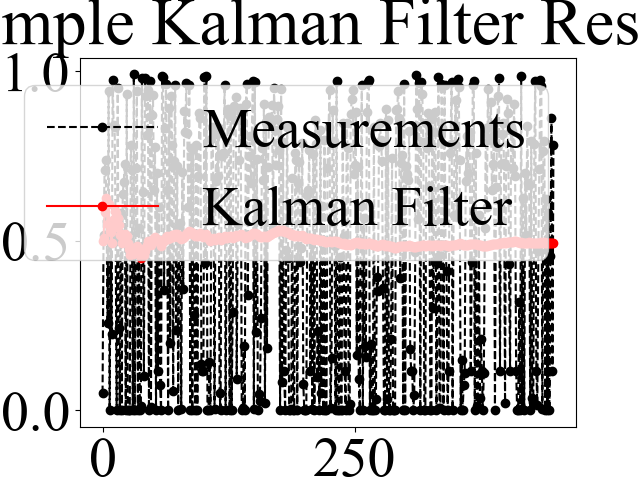
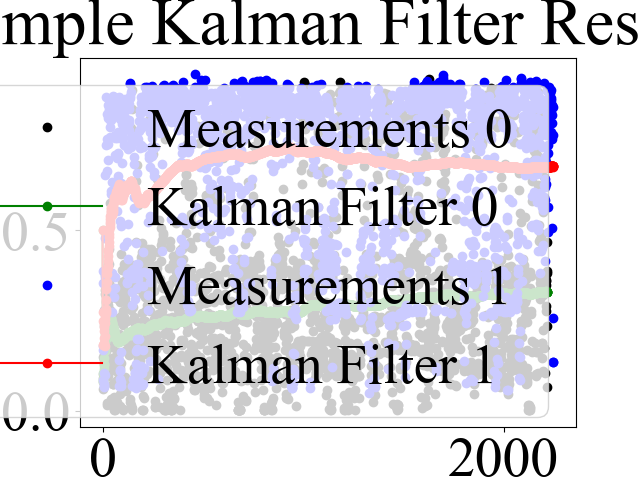
kf

diff --git a/tfpose/3-analyzing/simpleKF.py b/tfpose/3-analyzing/simpleKF.py
@@ -10,98 +10,107 @@ from scipy.optimize import curve_fit
 plt.rcParams['font.family'] = 'Times New Roman'
 plt.rcParams.update({'font.size': 40})
 
-dataPath = '../0-data/data_prediction/4R16R1S_es_100/90_for_kf.pkl'
-
-dfRaw = pd.read_pickle(dataPath)
-
-print(dfRaw)
-
-
-tFrame =  50.
-tFps = 20.
-tWin = tFrame * (1/tFps)
-tMax = tWin * len(dfRaw)
-
-
-n4error = tFrame
-
-error = 12 / np.sqrt(n4error)
+dataPath0 = '/Users/wdlee/Hci/test00.pkl'
+dataPath1 = '/Users/wdlee/Hci/test11.pkl'
 
 
 
-print(error)
-
-dfMeasure = dfRaw['prediction']
-
-print(dfMeasure)
-
-
-dfMeasureCut = pd.DataFrame() 
-
-nCut = 1
-
-for i in range(0, len(dfRaw), nCut) :
-    dfMeasureOne =  pd.DataFrame([dfMeasure.loc[i]])
-    dfMeasureCut = pd.concat([dfMeasureCut, dfMeasureOne])
-
-# print(dfMeasureCut)
 
 
 
-tWinCut = nCut * tWin
 
-tNp = np.arange(0, tMax, step=tWinCut)
+def funcKFsimple(datapath):
+    dfRaw = pd.read_pickle(datapath)
+    # dfRaw = dfRaw[500:1700].reset_index(drop=True)
 
+    tFrame =  50.
+    tFps = 20.
+    tWin = tFrame * (1/tFps)
+    tMax = tWin * len(dfRaw)
+    n4error = tFrame
+    error = 12 / np.sqrt(n4error)
 
+    dfMeasure = dfRaw['prediction']
 
-def kalman_filter(z_meas, x_esti, P):
-    """Kalman Filter Algorithm for One Variable."""
-    # (1) Prediction.
-    x_pred = A * x_esti
-    P_pred = A * P * A + Q
-
-    # (2) Kalman Gain.
-    K = P_pred * H / (H * P_pred * H + R)
-
-    # (3) Estimation.
-    x_esti = x_pred + K * (z_meas - H * x_pred)
-
-    # (4) Error Covariance.
-    P = P_pred - K * H * P_pred
-
-    return x_esti, P
+    # print(dfMeasure)
 
 
-# Initialization for system model.
-A = 1
-H = 1
-Q = 0
-R = 4
-# Initialization for estimation.
-x_0 = 0.5  # 14 for book.
-P_0 = 6
+    dfMeasureCut = pd.DataFrame() 
 
-conLv_meas_save = np.zeros(len(dfRaw))
-conLv_esti_save = np.zeros(len(dfRaw))
+    nCut = 1
 
-print(len(dfRaw))
-tNpTot = np.arange(0, len(dfRaw))
-x_esti, P = None, None
-for i in range(0, len(dfRaw), nCut):
-    z_meas = dfRaw.iloc[i]
-    z_meas = z_meas['prediction']
+    for i in range(0, len(dfRaw), nCut) :
+        dfMeasureOne =  pd.DataFrame([dfMeasure.loc[i]])
+        dfMeasureCut = pd.concat([dfMeasureCut, dfMeasureOne])
 
-    if i == 0:
-        x_esti, P = x_0, P_0
-    else:
-        x_esti, P = kalman_filter(z_meas, x_esti, P)
+    # print(dfMeasureCut)
 
-    conLv_meas_save[i] = z_meas
-    conLv_esti_save[i] = x_esti
+
+
+    tWinCut = nCut * tWin
+
+    tNp = np.arange(0, tMax, step=tWinCut)
+
+
+
+    def kalman_filter(z_meas, x_esti, P):
+        """Kalman Filter Algorithm for One Variable."""
+        # (1) Prediction.
+        x_pred = A * x_esti
+        P_pred = A * P * A + Q
+
+        # (2) Kalman Gain.
+        K = P_pred * H / (H * P_pred * H + R)
+
+        # (3) Estimation.
+        x_esti = x_pred + K * (z_meas - H * x_pred)
+
+        # (4) Error Covariance.
+        P = P_pred - K * H * P_pred
+
+        return x_esti, P
+
+        # Initialization for system model.
+    A = 1
+    H = 1
+    Q = 0
+    R = 4
+    # Initialization for estimation.
+    x_0 = 0.5  
+    P_0 = 100
+
+    conLv_meas_save = np.zeros(len(dfRaw))
+    conLv_esti_save = np.zeros(len(dfRaw))
+
+    print(len(dfRaw))
+    tNpTot = np.arange(0, len(dfRaw))
+    x_esti, P = None, None
+    for i in range(0, len(dfRaw), nCut):
+        z_meas = dfRaw.iloc[i]
+        z_meas = z_meas['prediction']
+
+        if i == 0:
+            x_esti, P = x_0, P_0
+        else:
+            x_esti, P = kalman_filter(z_meas, x_esti, P)
+
+        conLv_meas_save[i] = z_meas
+        conLv_esti_save[i] = x_esti
+
+    return conLv_meas_save, conLv_esti_save, tNpTot
+
+
+m1, e1, tNpTot1 = funcKFsimple(dataPath1)
+m0, e0, tNpTot0 = funcKFsimple(dataPath0)
 
 plt.figure(1)
-plt.plot(tNpTot, conLv_meas_save, 'ko--', label='Measurements')
-plt.plot(tNpTot, conLv_esti_save, 'ro-', label='Kalman Filter')
+plt.plot(tNpTot0, m0, 'ko', label='Measurements 0 ')
+plt.plot(tNpTot0, e0, 'go-', label='Kalman Filter 0 ')
+
+plt.plot(tNpTot1, m1, 'bo', label='Measurements 1 ')
+plt.plot(tNpTot1, e1, 'ro-', label='Kalman Filter 1 ')
+
+
 plt.legend(loc='upper right')
 plt.title('Simple Kalman Filter Result')
 plt.xlabel('Time [per 2.5 sec]')
@@ -109,11 +118,10 @@ plt.ylabel('Concentration Level')
 plt.savefig('./png/simple_kalman_filter.png')
 plt.grid()
 
-nBins = 150
-def _2gaussian(x, amp1,cen1,sigma1, amp2,cen2,sigma2):
-    return amp1*(1/(sigma1*(np.sqrt(2*np.pi))))*(np.exp((-1.0/2.0)*(((x_array-cen1)/sigma1)**2))) + \
-            amp2*(1/(sigma2*(np.sqrt(2*np.pi))))*(np.exp((-1.0/2.0)*(((x_array-cen2)/sigma2)**2)))
-
+nBins = 50
+# def _2gaussian(x, amp1,cen1,sigma1, amp2,cen2,sigma2):
+#     return amp1*(1/(sigma1*(np.sqrt(2*np.pi))))*(np.exp((-1.0/2.0)*(((x_array-cen1)/sigma1)**2))) + \
+#             amp2*(1/(sigma2*(np.sqrt(2*np.pi))))*(np.exp((-1.0/2.0)*(((x_array-cen2)/sigma2)**2)))
 
 
 def gauss(x,mu,sigma,A):
@@ -137,7 +145,7 @@ def bimodal(x,mu1,sigma1,A1,mu2,sigma2,A2):
 
 plt.figure(2)
 # plt.hist(conLv_esti_save, bins =nBins , label='Estimation')
-plt.legend(loc='upper right')
+plt.legend(loc='lower right')
 plt.title('Estimation Histogram')
 plt.xlabel('Estimation Concentration Level')
 plt.ylabel('Number of Values')
@@ -145,18 +153,34 @@ plt.ylabel('Number of Values')
 plt.grid()
 
 
-stdIni = np.std(conLv_esti_save)
-meanIni = np.mean(conLv_esti_save)
-y,x,_ = hist(conLv_esti_save, bins =nBins , label='Estimation', color='blue', alpha=0.5)
+stdIni1 = np.std(e1)
+meanIni1 = np.mean(e1)
 
-x=(x[1:]+x[:-1])/2 # for len(x)==len(y)
+stdIni0 = np.std(e0)
+meanIni0 = np.mean(e0)
 
-expected=(0.48, stdIni , 50, 0.52 , stdIni, 20)
-params,cov=curve_fit(bimodal,x,y,expected)
-sigma=sqrt(diag(cov))
-plot(x,bimodal(x,*params),color='red',lw=3,label='model')
+y1,x1,_ = hist(e1, bins =nBins , label='Estimation', color='red', alpha=0.5, range=(0.1,0.9))
+y0,x0,_ = hist(e0, bins =nBins , label='Estimation', color='green', alpha=0.5, range=(0.1,0.9))
+
+x1=(x1[1:]+x1[:-1])/2 # for len(x)==len(y)
+x0=(x0[1:]+x0[:-1])/2 # for len(x)==len(y)
+
+expected1=(meanIni1 - stdIni1, stdIni1 , 100, meanIni1 + stdIni1 , stdIni1, 20)
+expected0=(meanIni0 - stdIni0, stdIni0 , 100, meanIni0 + stdIni0  , stdIni0, 20)
+
+params1,cov1 = curve_fit(bimodal,x1,y1,expected1)
+params0,cov0 = curve_fit(bimodal,x0,y0,expected0)
+
+sigma1=sqrt(diag(cov1))
+sigma0=sqrt(diag(cov0))
+
+plot(x1,bimodal(x1,*params1),color='red',lw=3,label='model')
+plot(x0,bimodal(x0,*params0),color='green',lw=3,label='model')
 legend()
-# print(params,'\n',sigma)   
-# print(pd.DataFrame(data={'params':params,'sigma':sigma},index=bimodal.__code__.co_varnames[1:]))
+print(params1,'\n',sigma1)   
+print(params0,'\n',sigma0)   
+
+print(pd.DataFrame(data={'params1':params1,'sigma1':sigma1},index=bimodal.__code__.co_varnames[1:]))
+print(pd.DataFrame(data={'params1':params0,'sigma1':sigma0},index=bimodal.__code__.co_varnames[1:]))
 
 plt.show()
